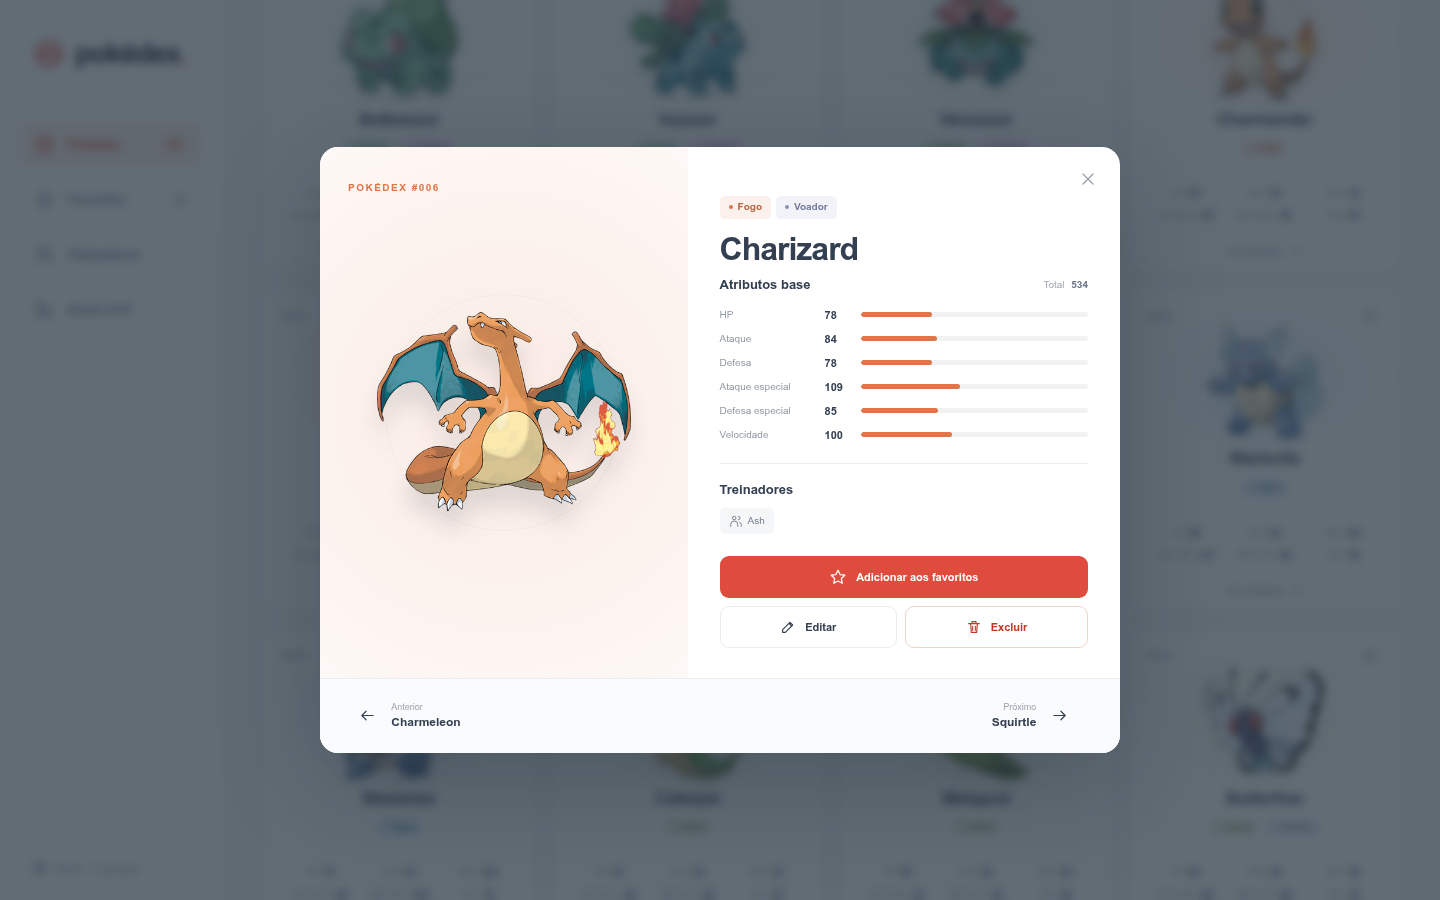
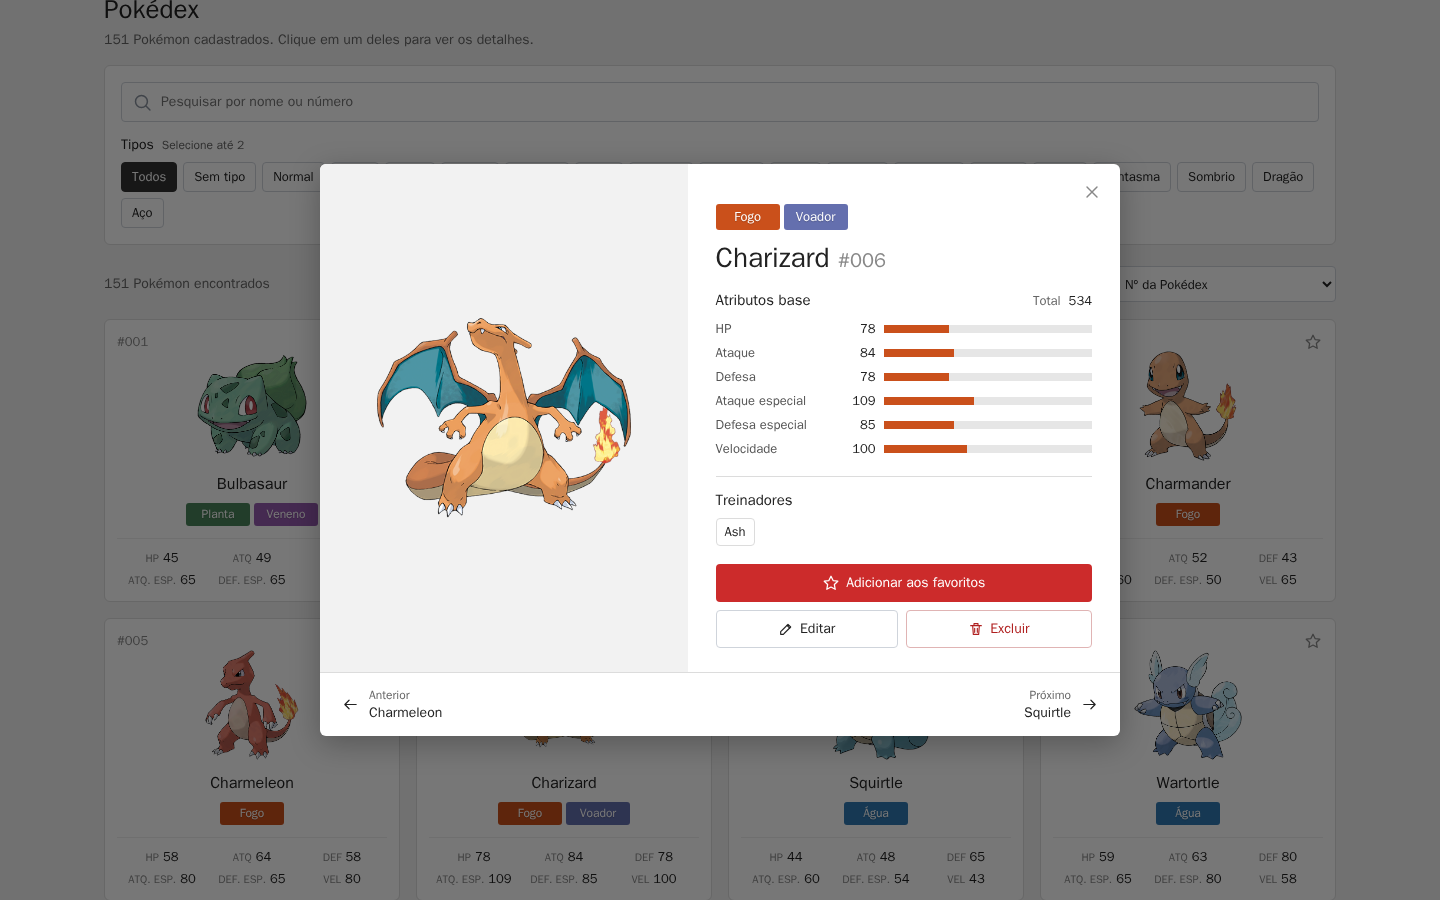
Atualiza as capturas de tela e tira os emojis do README

diff --git a/README.md b/README.md
@@ -347,19 +347,19 @@ curl -X DELETE http://localhost:8080/api/pokemons/152
 
 Mantidas da Atividade 03, agora com dados vindos da API:
 
-- 🔎 **Pesquisa** por parte do nome ou pelo número (`25`, `025` ou `#025`).
-- 🧬 **Filtro por tipo**: até dois tipos, e o Pokémon precisa ter ambos. **Sem tipo** encontra o Mew.
-- 📄 **Detalhes** do Pokémon com navegação para o anterior e o próximo e os treinadores que o possuem.
-- 📊 **Atributos**: os seis atributos base nos cards e em barras nos detalhes, com total.
-- ⭐ Favoritos salvos no navegador, ordenação por número, nome ou atributo, Pokémon aleatório e página de treinadores com insígnias e equipes.
+- **Pesquisa** por parte do nome ou pelo número (`25`, `025` ou `#025`).
+- **Filtro por tipo**: até dois tipos, e o Pokémon precisa ter ambos. **Sem tipo** encontra o Mew.
+- **Detalhes** do Pokémon com navegação para o anterior e o próximo e os treinadores que o possuem.
+- **Atributos**: os seis atributos base nos cards e em barras nos detalhes, com total.
+- Favoritos salvos no navegador, ordenação por número, nome ou atributo, Pokémon aleatório e página de treinadores com insígnias e equipes.
 
 Novas nesta atividade:
 
-- 🔗 **Endereço de cada página na URL**: `#/`, `#/favoritos`, `#/treinadores`, `#/batalhas` e `#/minigames`. Recarregar mantém a página, os botões voltar e avançar do navegador funcionam e dá para compartilhar um link direto.
+- **Endereço de cada página na URL**: `#/`, `#/favoritos`, `#/treinadores`, `#/batalhas` e `#/minigames`. Recarregar mantém a página, os botões voltar e avançar do navegador funcionam e dá para compartilhar um link direto.
 
-- ➕ **Cadastrar**: botão **Novo Pokémon** na barra de resultados.
-- ✏ **Editar**: botão **Editar** nos detalhes. O número da Pokédex fica bloqueado.
-- 🗑 **Excluir**: botão **Excluir** nos detalhes, com confirmação que avisa de quais equipes o Pokémon vai sair.
+- **Cadastrar**: botão **Novo Pokémon** na barra de resultados.
+- **Editar**: botão **Editar** nos detalhes. O número da Pokédex fica bloqueado.
+- **Excluir**: botão **Excluir** nos detalhes, com confirmação que avisa de quais equipes o Pokémon vai sair.
 - O formulário valida os dados no navegador com as mesmas regras da API e também mostra os erros devolvidos pelo backend (ex.: nome repetido).
 - Avisos de confirmação após cada operação, estado de carregamento e tela de erro quando a API não responde.
 
